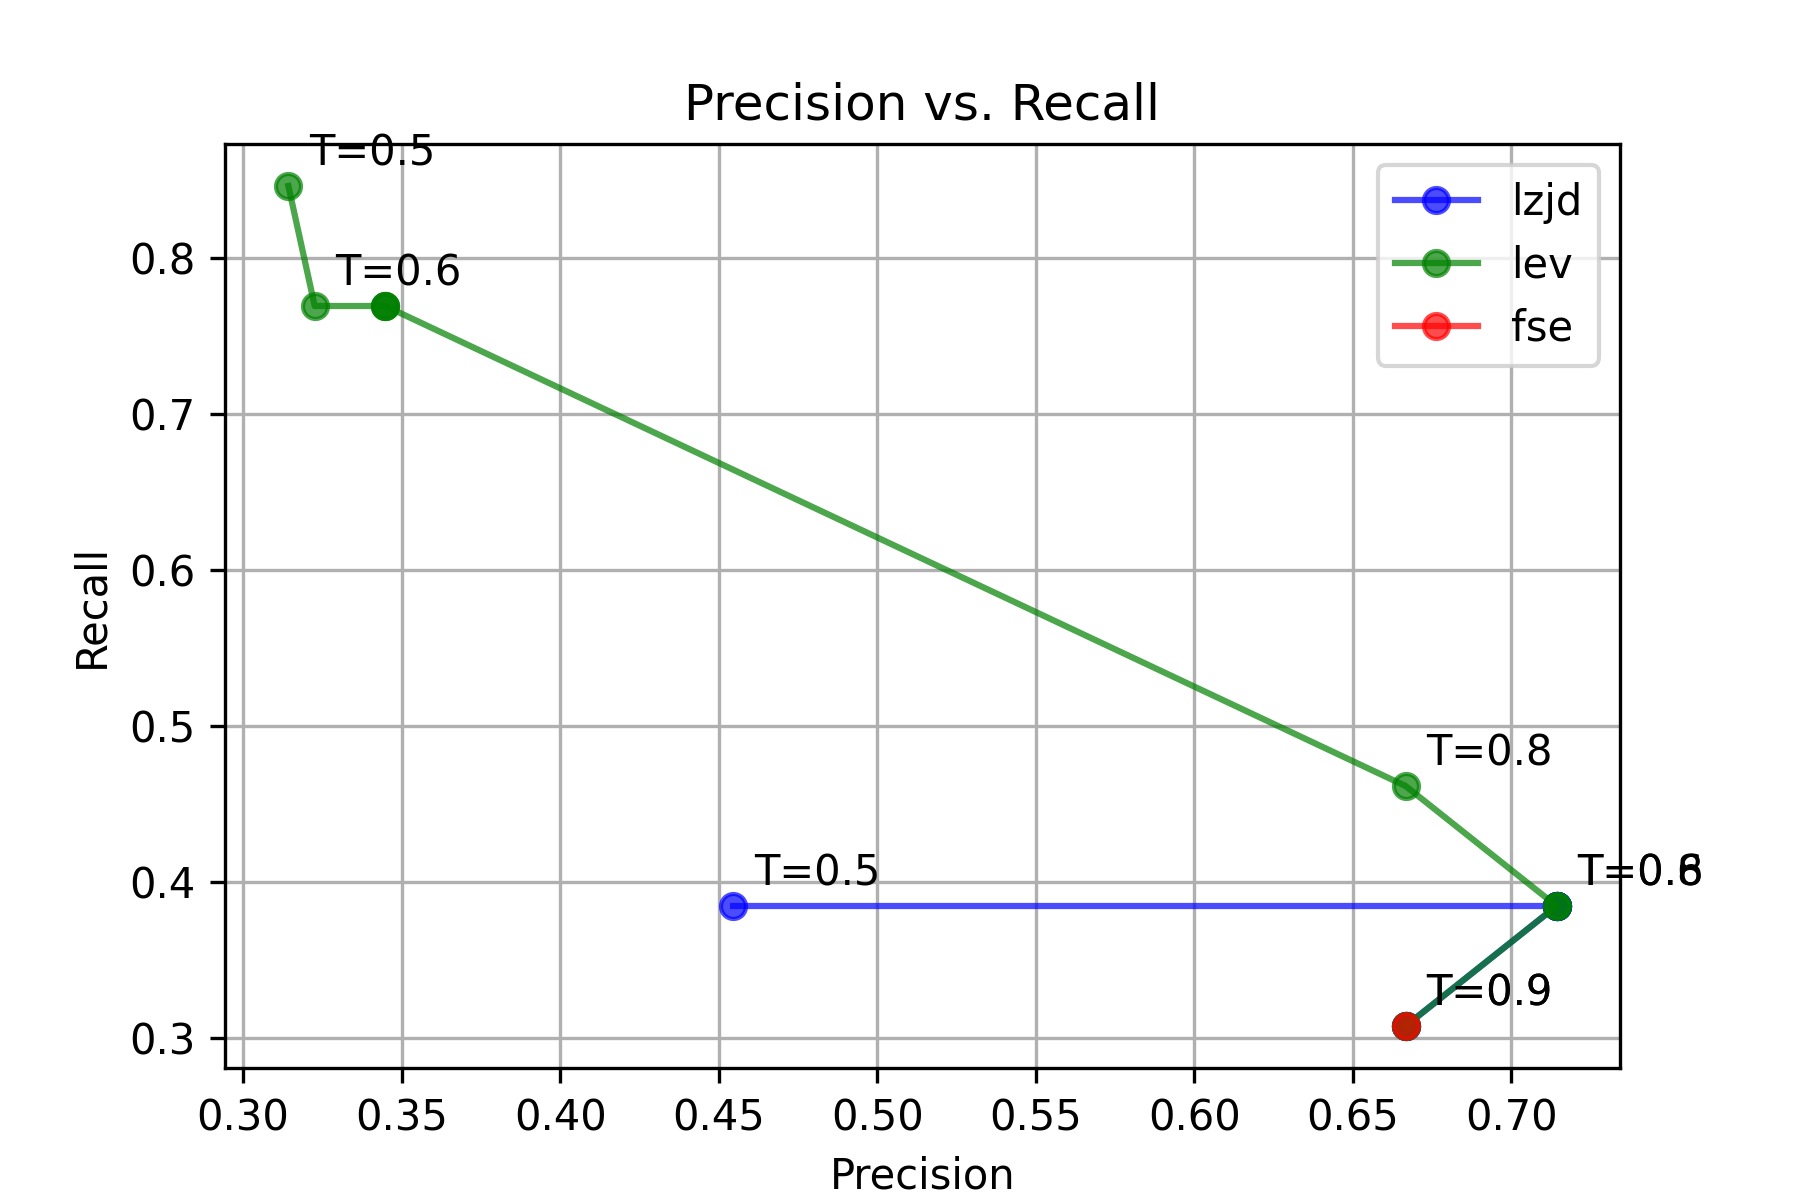
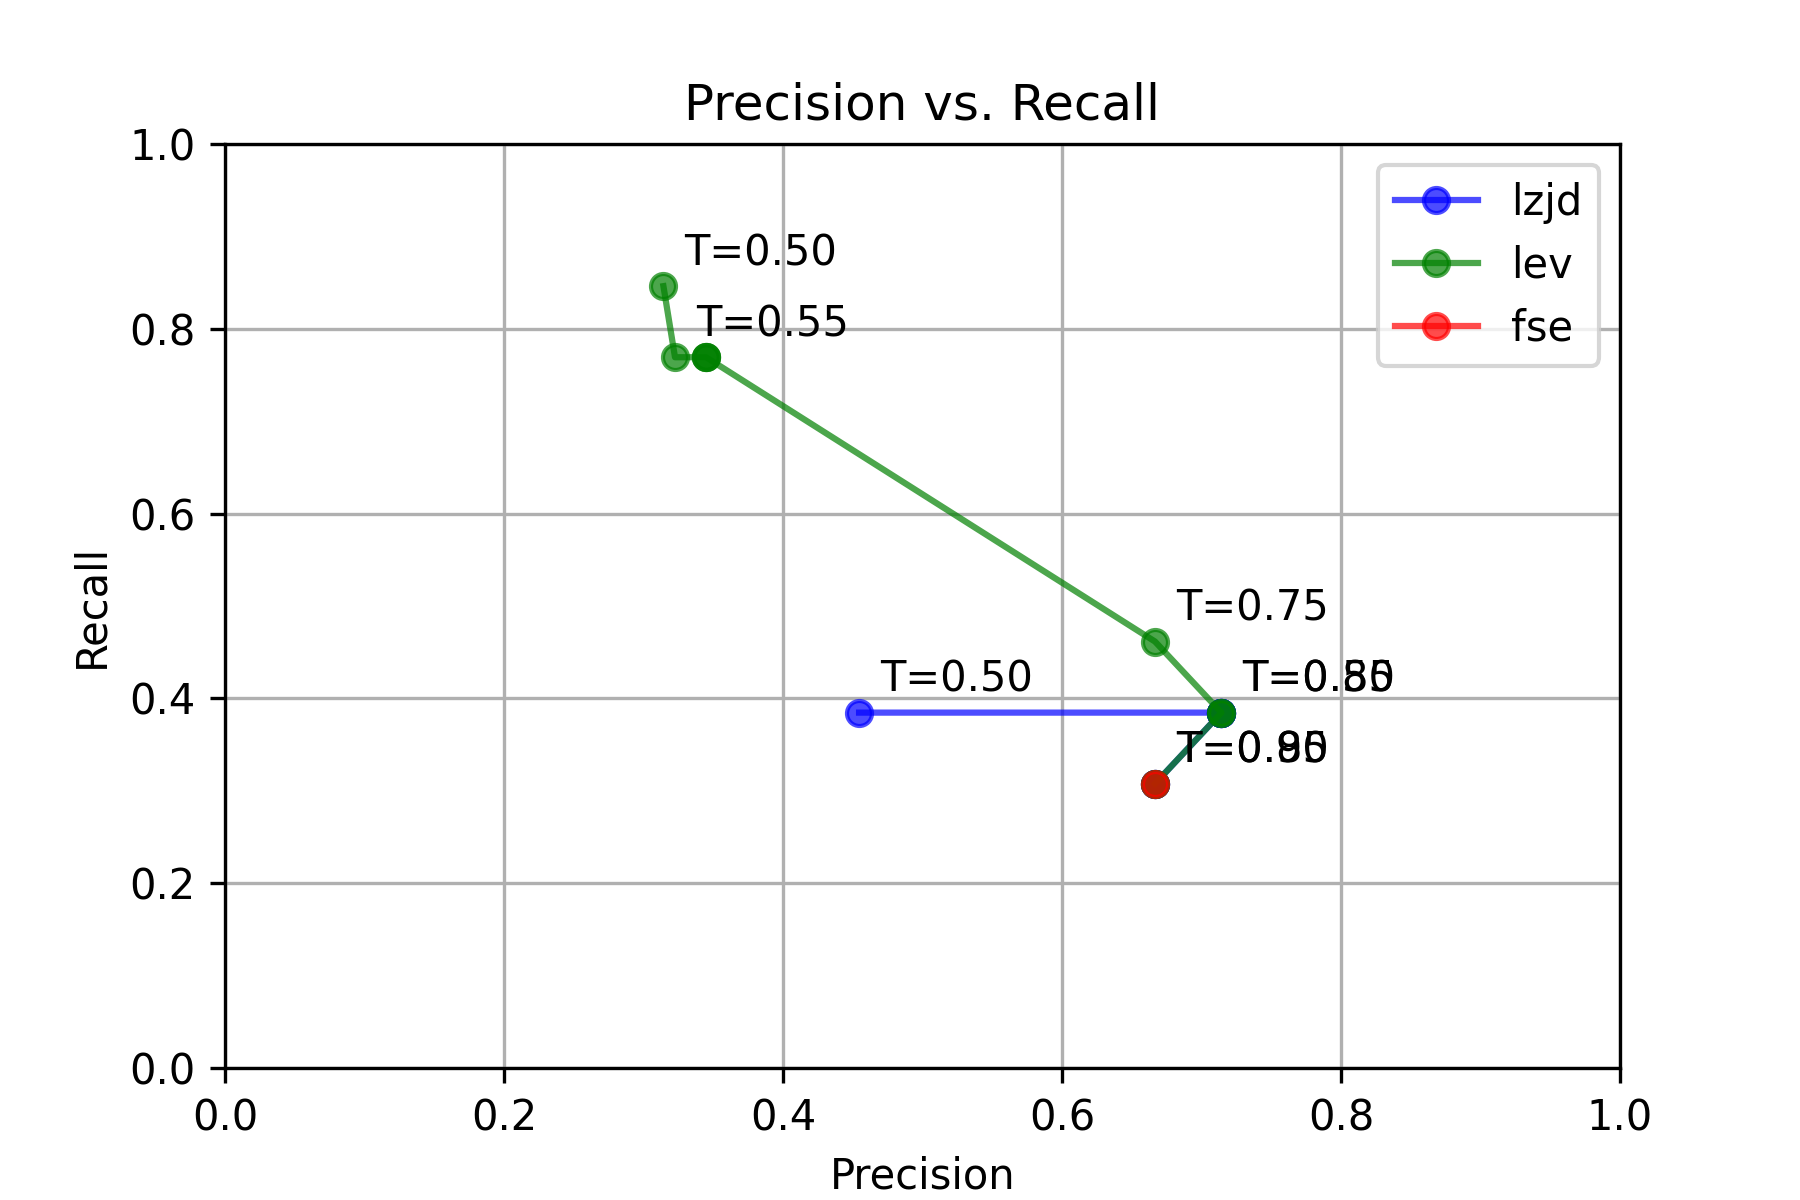
Constant output view, and avoid duplicating work.

diff --git a/lzjd-script.py b/lzjd-script.py
@@ -221,11 +221,14 @@ print(f"FSE\n{fsecm}\n{fsesum}")
 
 threshold_range = list(np.arange(0.5,1.01,0.05))
 
+# Compare each pair a single time
+all_comparisons = [(addr1, addr2, eds_sim(fuzzyhash1, fuzzyhash2), lev_sim(bytes1, bytes2)) for ((addr1, (bytes1, fuzzyhash1)), (addr2, (bytes2, fuzzyhash2))) in tqdm.tqdm(itertools.product(funs1.items(), funs2.items()), desc="all comparisons loop", total=len(funs1)*len(funs2))]
+
 # lzjd
 lzjds = []
 for t in tqdm.tqdm(threshold_range, desc="lzjd iterations"):
 
-    y_lzjd = [cmp(addr1, addr2, eds_sim(fuzzyhash1, fuzzyhash2) >= t) for ((addr1, (_, fuzzyhash1)), (addr2, (_, fuzzyhash2))) in tqdm.tqdm(itertools.product(funs1.items(), funs2.items()), desc="lzjd inner loop", total=len(funs1)*len(funs2))]
+    y_lzjd = [cmp(addr1, addr2, sim >= t) for (addr1, addr2, sim, _) in tqdm.tqdm(all_comparisons, desc="inner tqdm")]
 
     y_predlzjd, _ = zip(*y_lzjd)
 
@@ -240,7 +243,7 @@ for t in tqdm.tqdm(threshold_range, desc="lzjd iterations"):
 levs = []
 for t in tqdm.tqdm(threshold_range, desc="ed iterations"):
 
-    y_lev = [cmp(addr1, addr2, lev_sim(bytes1, bytes2) >= t) for ((addr1, (bytes1, _)), (addr2, (bytes2, _))) in tqdm.tqdm(itertools.product(funs1.items(), funs2.items()), desc="ed inner loop", total=len(funs1)*len(funs2))]
+    y_lev = [cmp(addr1, addr2, sim >= t) for (addr1, addr2, _, sim) in tqdm.tqdm(all_comparisons, desc="inner lev")]
 
     y_predlev, _ = zip(*y_lev)
 
@@ -284,7 +287,8 @@ for i, technique in enumerate(techniques):
             plt.annotate(f'T={txt:.2f}', (techniques[technique]['precision'][j], techniques[technique]['recall'][j]), textcoords='offset points', xytext=(5,5))
             last = new
 
-
+plt.xlim([0, 1])
+plt.ylim([0, 1])
 plt.xlabel('Precision')
 plt.ylabel('Recall')
 plt.title('Precision vs. Recall')
